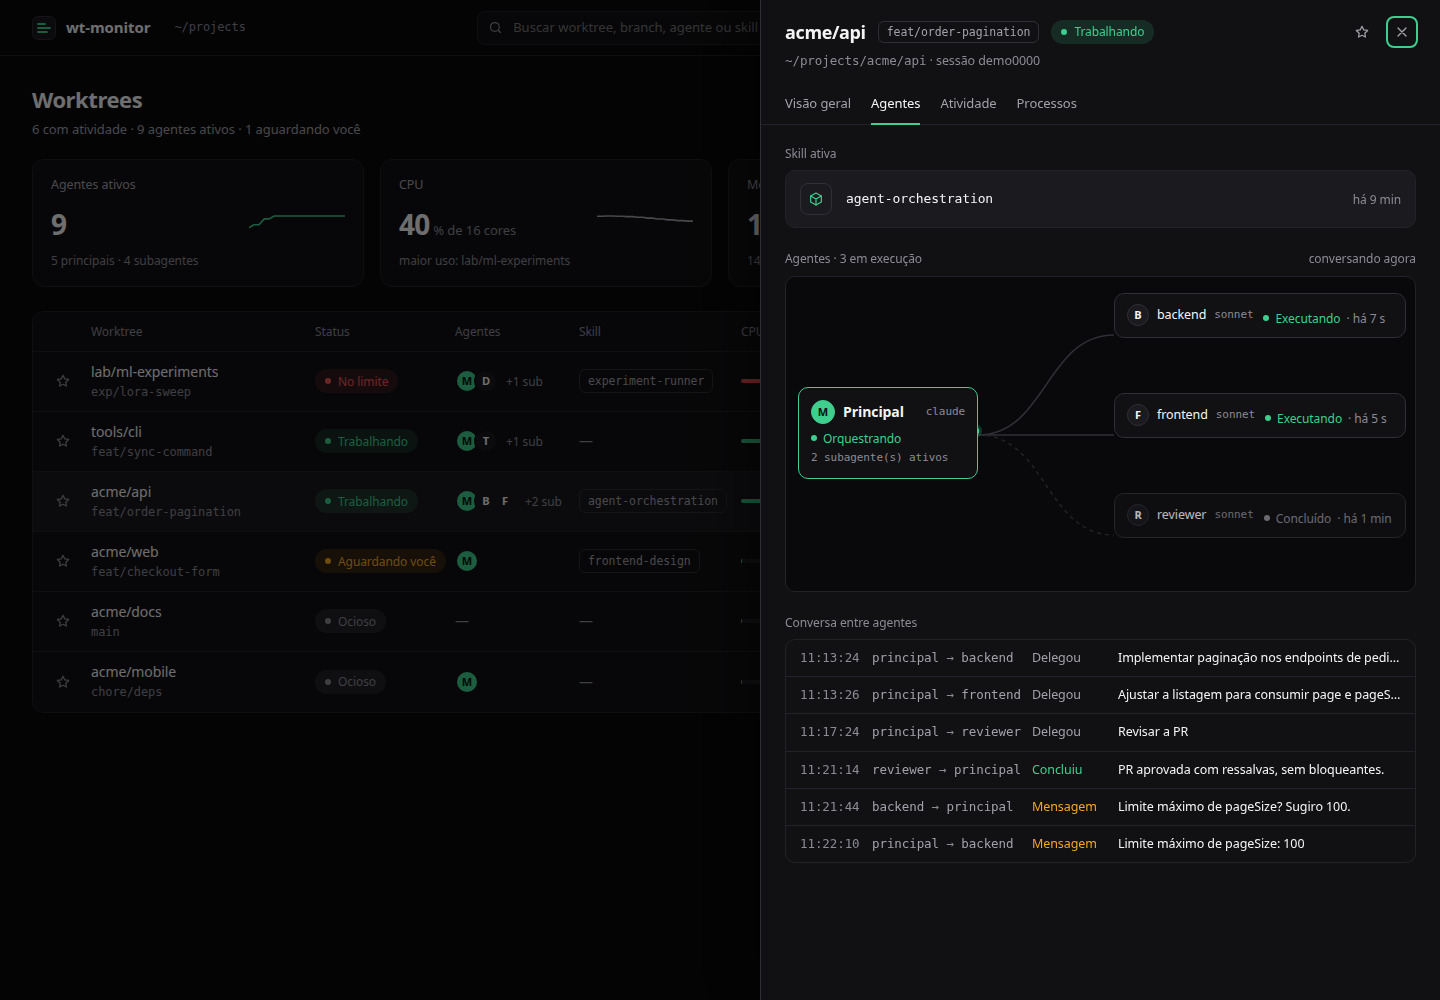
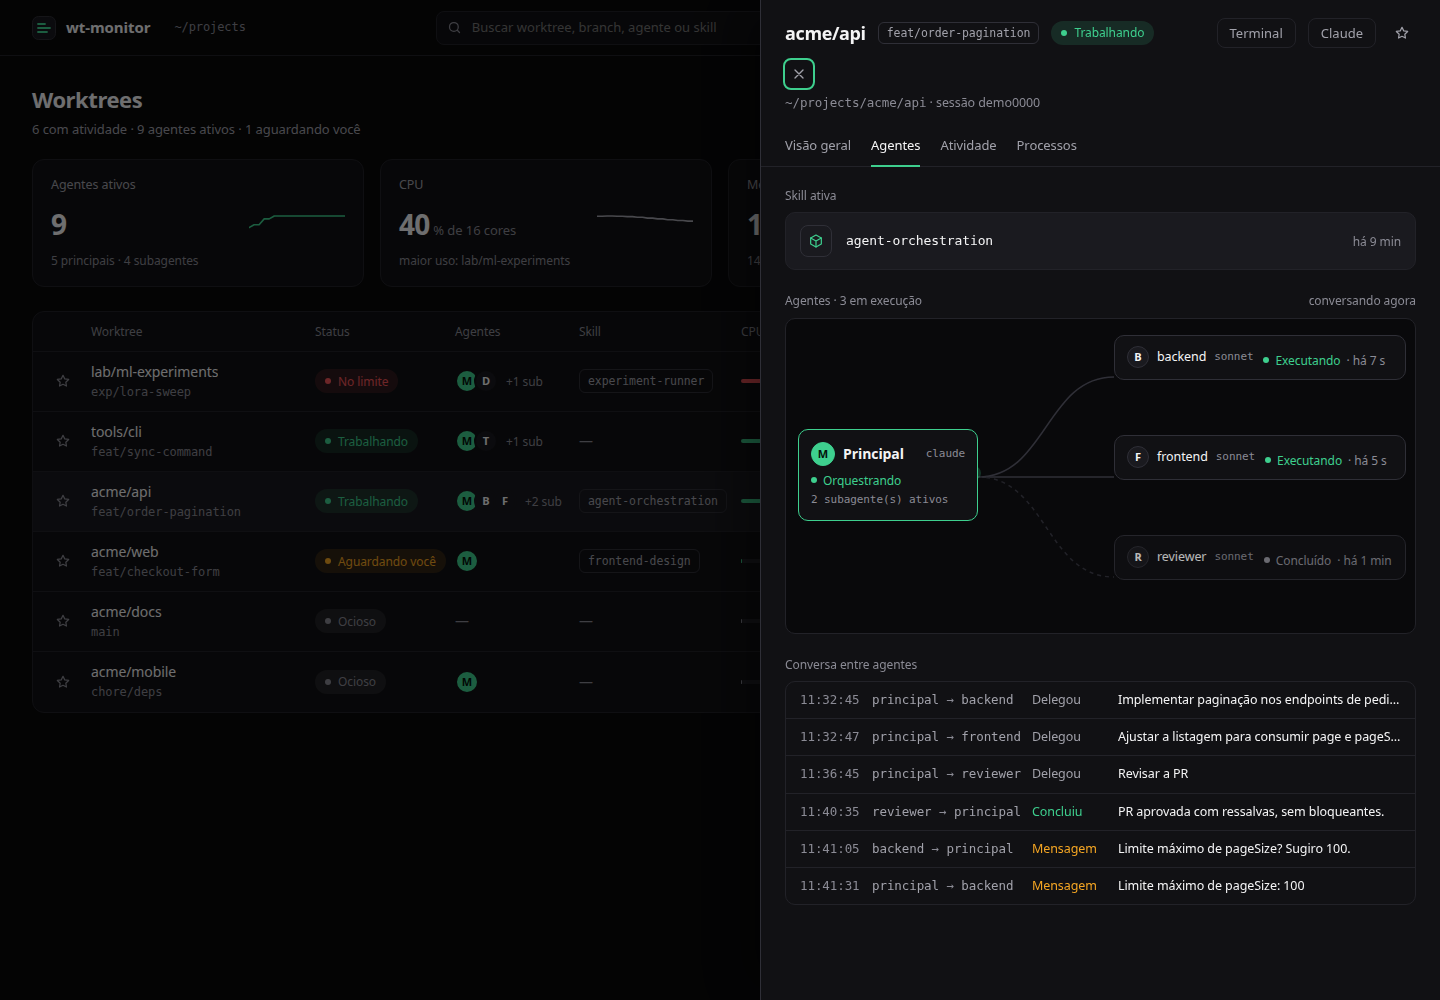
Document terminals and add make targets, security policy and CI e2e
TERMINALS=1, make e2e and make open-terminals; SECURITY.md with the threat model; README, architecture and changelog updates; a terminals screenshot generated from demo data.

diff --git a/README.md b/README.md
@@ -14,12 +14,17 @@ Single static binary, **zero dependencies** (Rust standard library only), Linux 
 |---|---|
 | ![session](docs/img/session.png) | ![arena](docs/img/arena.png) |
 
+| Terminals started by the panel (opt-in), four side by side |
+|---|
+| ![terminals](docs/img/terminals.png) |
+
 ## Features
 
 - **Per-worktree view** – processes are grouped by the nearest directory containing `.git` (a file in linked worktrees, a folder in normal repos). Branch, status, CPU %, memory, threads, CPU affinity, and 60 s history charts.
 - **Agents, skills and sub-agents** – for Claude Code worktrees it shows which agents are running (the main agent plus each running sub-agent with its type and model), the **skill** in use, the tool each sub-agent is on, and **who is talking to whom** (delegations, `SendMessage`, completions). A status is derived for each worktree: *working*, *waiting for you*, *idle* or *at the limit* (see [How status is derived](docs/architecture.md#status)).
 - **Session detail** – click a worktree to open a drawer with tabs: overview, agents (topology + conversation between agents), live activity feed (prompts, agent messages, tool calls, results) and processes.
 - **Two looks, one switch** – *Overview*, a dense table in the style of modern dashboards (dark and light, follows your system), and *Arena*, where each worktree is a small robot with its sub-agents wired to it and message packets travelling between them. It types when busy, sleeps when idle, celebrates when a task finishes, and earns XP/levels. Respects `prefers-reduced-motion`.
+- **Terminals (opt-in)** – open real terminals — a login shell, or `claude` — inside the dashboard, grouped by worktree and shown 1, 2 or 4 at a time. Only terminals **started by the panel** are managed. See [Terminals](#terminals-opt-in).
 - **Filters, search and pins** – filter by status, search by worktree, branch, agent or skill (`Ctrl K`), and ★ pin the worktrees you care about; they stay on top even with no running processes.
 - **Desktop notifications** (via `notify-send`) for high CPU / memory in a worktree, high system memory, and **when an agent finishes a task**, including its last message.
 - **Per-core CPU bars**, system memory and load.
@@ -76,20 +81,41 @@ Each alert fires once, re-arms when the value returns to normal, and waits at le
 
 URL parameters: `?mode=sober|fun`, `?theme=dark|light`, `?demo`, and with `?demo` also `?open=<worktree name>&tab=agents|activity|procs|overview`.
 
+## Terminals (opt-in)
+
+The dashboard can run terminals itself. This is **off by default**: it lets a web page start shells as you, so read [SECURITY.md](SECURITY.md) first.
+
+```bash
+make run TERMINALS=1          # or: wt-monitor --terminals   (WT_TERMINALS=1 also works)
+make install TERMINALS=1      # same, as the systemd user service
+make open-terminals           # opens the dashboard with the one-time token in the link
+```
+
+A random 256-bit secret is created on first use in `~/.config/wt-monitor/token` (mode `0600`) and is never returned by the API. `make open-terminals` opens `http://127.0.0.1:8765/#token=…` once; the browser remembers the token (the fragment is never sent to the server) and the link is cleaned from the address bar. Without the token the *Terminals* tab explains how to get it and its buttons stay disabled.
+
+- **Tab "Terminais"**: pick a worktree and click *Novo terminal* (a login shell in that worktree, so your `PATH`, `nvm` and per-folder account switching apply; it falls back to `/bin/bash` when `$SHELL` is not set, as in systemd user services) or *Novo Claude* (the same shell, with `claude` already typed). The session drawer has the same two buttons.
+- **Sets**: terminals are grouped by worktree in tabs; the `1 / 2 / 4` switch shows that many side by side. Closing a tab kills the terminal's process group.
+- **Reconnect**: terminals live in the server, not in the page. Reload or reopen the browser and they come back with the last 256 KB of output; ended terminals stay listed for 10 minutes with their exit code. At most 16 run at once.
+- Only terminals **started by the panel** are managed; it never attaches to terminals you opened elsewhere.
+
+The PTY and the WebSocket are implemented with the standard library only (no crates); the terminal emulator is [xterm.js](vendor/xterm/README.md), embedded in the binary.
+
 ## Make targets
 
-`make` with no arguments prints this list. Variables you can override: `ROOT` (default `~/dev`), `PORT` (`8765`), `PREFIX` (`~/.local`), `CONFIG_DIRS` (Claude config dirs for the hook; default all).
+`make` with no arguments prints this list. Variables you can override: `ROOT` (default `~/dev`), `PORT` (`8765`), `PREFIX` (`~/.local`), `TERMINALS` (`1` enables terminals), `CONFIG_DIRS` (Claude config dirs for the hook; default all).
 
 | Target | What it does |
 |---|---|
 | `make build` | Build the optimized binary |
-| `make run` | Run in the foreground on `ROOT`/`PORT` |
+| `make run` | Run in the foreground on `ROOT`/`PORT` (`TERMINALS=1` enables terminals) |
+| `make open-terminals` | Open the dashboard with the one-time terminal token in the link |
 | `make open` | Open the dashboard in the default browser |
 | `make test` | Unit tests |
 | `make fmt` / `make fmt-check` | Format / check formatting |
 | `make lint` | `clippy`, warnings are errors |
 | `make js-check` | Syntax-check the page script (needs `node`) |
-| `make check` | Everything CI runs: `fmt-check`, `lint`, `test`, `js-check` |
+| `make check` | `fmt-check`, `lint`, `test`, `js-check` |
+| `make e2e` | End-to-end tests of the terminals, over HTTP/WebSocket and in a real headless Chrome (CI runs `check` and `e2e`) |
 | `make install` | Build, install to `PREFIX/bin`, enable + (re)start the systemd user service |
 | `make uninstall` | Stop and remove the service and binary |
 | `make restart` / `status` / `logs` | Manage the service (`logs` follows `journalctl`) |
@@ -114,6 +140,7 @@ Build tools size their worker pools from the machine's CPU count, not from affin
 
 ## Security & privacy
 
+- Terminals, when enabled, are guarded by a token that is never exposed by the API, `Origin`/`Host` checks and a closed set of commands — details and threat model in [SECURITY.md](SECURITY.md).
 - Listens on **127.0.0.1 only** and rejects any `Host` header other than `127.0.0.1:<port>` / `localhost:<port>` (DNS-rebinding protection).
 - `POST /event` requires the custom header `X-WT: 1`, which forces a CORS preflight, so other web pages in your browser cannot inject fake events.
 - The preview and agent views read Claude Code transcripts (and sub-agent transcripts) under `~/.claude*/projects/` **only for worktrees inside the watched root**; the requested path is validated and never used to read arbitrary files. Transcripts can contain sensitive content — the preview is as private as your loopback interface.
@@ -126,7 +153,7 @@ See [docs/architecture.md](docs/architecture.md).
 
 ## Limitations
 
-Linux only. Memory is the sum of RSS, so pages shared between processes are counted more than once. Task detection relies on Claude Code's `Stop` hook, which fires after *every* completed response, not only long tasks. Agent, skill and *waiting for you* detection is **inferred from the transcript files** (their format is not a stable API) and is a best-effort heuristic. The UI uses Inter / JetBrains Mono when installed and falls back to system fonts; it makes no network requests.
+Linux only. Terminals run your login shell and are limited to 16; they do not attach to sessions you started elsewhere. Memory is the sum of RSS, so pages shared between processes are counted more than once. Task detection relies on Claude Code's `Stop` hook, which fires after *every* completed response, not only long tasks. Agent, skill and *waiting for you* detection is **inferred from the transcript files** (their format is not a stable API) and is a best-effort heuristic. The UI uses Inter / JetBrains Mono when installed and falls back to system fonts; it makes no network requests.
 
 ## Contributing & license
 

diff --git a/docs/architecture.md b/docs/architecture.md
@@ -8,7 +8,7 @@
                   └── alerts ──► notify-send               └── GET /api/preview ──► ~/.claude*/projects/**.jsonl
 ```
 
-Everything is in `src/main.rs` (std only) plus `index.html`, embedded with `include_str!`.
+Rust standard library only. `src/main.rs` holds the sampler, alerts and HTTP server; `src/terms.rs`, `src/pty.rs` and `src/ws.rs` implement the opt-in terminals. The UI is `index.html` plus the vendored xterm.js, all embedded with `include_str!`.
 
 ## Sampler
 
@@ -61,6 +61,25 @@ The browser polls one worktree per second (each every 5 s, the open one every 2 
 ## UI
 
 A single page, no build step, no libraries, no network requests. Rows and arena stations are reconciled by key (`sync()`) and cell contents are only rewritten when they change (`setHTML()`), so focus and CSS animations survive the 1 Hz refresh. *Overview* and *Arena* share the same data and are separate render functions; the session drawer is shared. Colours are CSS custom properties (dark by default, light via `prefers-color-scheme` or `?theme=`). `?demo` replaces `fetch` with a client-side generator of fake data, including sub-agents and skills.
+
+## Terminals (opt-in)
+
+Started with `--terminals`; otherwise every `/api/terminals*` and `/ws/term/*` route is 404.
+
+- **`pty.rs`** — pseudo-terminals through direct FFI to the libc that `std` already links (`posix_openpt`, `grantpt`, `unlockpt`, `ptsname_r`, `ioctl`, `setsid`). The child runs as a session leader with the slave as its controlling terminal; the master is `O_CLOEXEC` and the slave is opened `O_NOCTTY` so the server never adopts it.
+- **`ws.rs`** — RFC 6455: handshake (SHA-1 + base64, tested against the RFC vectors), masked client frames, fragmentation, ping/pong, close. Client frames must be masked; messages are capped at 1 MiB.
+- **`terms.rs`** — the registry. Each terminal has a reader thread that appends to a 256 KB ring buffer and fans out to subscribers, and a waiter thread that records the exit code. Lock order is always ring → subs → exit. Attaching sends the ring first and then live output with no gap. Dead terminals are kept 10 minutes; at most 16 exist.
+
+Routes (mutations need `X-WT: 1` + `X-WT-Token`):
+
+| Route | Purpose |
+|---|---|
+| `GET /api/terminals` | `{enabled, auth}`; with a valid token also `terms: [...]`. The token is never returned. |
+| `POST /api/terminals` | body `path=<worktree>&kind=shell\|claude&cols=&rows=` → `{id}` |
+| `DELETE /api/terminals/<id>` | SIGHUP to the process group, SIGKILL after 2 s |
+| `GET /ws/term/<id>` | WebSocket. Origin must be the dashboard's own. First message `{"token":"…"}`; then binary = keyboard, text `{"resize":[cols,rows]}`; the server sends binary output and `{"exit":N}`. |
+
+A `shell` terminal runs `$SHELL -l` (so `PATH`, `nvm` and per-folder account switching from the user's profile apply); a `claude` terminal is the same shell with `claude\n` typed. The browser keeps one xterm.js instance per terminal (`TERM.panes`), reconnects after drops, and resets and replays on reconnect. The token lives in `~/.config/wt-monitor/token` (`0600`) and reaches the browser once, through the `#token=` fragment. See [SECURITY.md](../SECURITY.md).
 
 ## Security
 

diff --git a/SECURITY.md b/SECURITY.md
@@ -1,0 +1,25 @@
+# Security
+
+## Reporting a vulnerability
+
+Please report security problems privately through GitHub's **private vulnerability reporting** (the *Security* tab of the repository, "Report a vulnerability"), not in a public issue. Include the version, how to reproduce it and the impact you see.
+
+## Threat model
+
+wt-monitor is a local tool for a single user's machine.
+
+**Always on (no terminals):**
+- Listens on `127.0.0.1` only and rejects any `Host` header other than `127.0.0.1:<port>` / `localhost:<port>` (DNS-rebinding protection).
+- `POST /event` requires the custom header `X-WT: 1`, which makes browsers send a CORS preflight that the server never approves, so other web pages cannot inject events.
+- The preview reads Claude Code transcripts only for worktrees inside the watched root; paths are validated (absolute, no `..`, symlinks resolved, must contain `.git`).
+- The dashboard reads `/proc` and shows processes, commands and transcript excerpts to **anyone who can reach the port**. On a machine shared with other users, other local users can see them: `127.0.0.1` is not private between users.
+
+**Terminals (opt-in with `--terminals`):** the dashboard can start a login shell (or run `claude` in one) in a worktree. That is remote-code-execution capability for whoever is authorised, so:
+- It is **off by default**; every `/api/terminals*` and `/ws/term/*` route answers 404 unless started with `--terminals` (or `WT_TERMINALS=1`).
+- Authorisation is a 256-bit secret kept in a file that only you can read (`~/.config/wt-monitor/token`, mode `0600`, directory `0700`). It is **never returned by any API** — you receive it once through the fragment of a link (`/#token=…`, which browsers never send to the server) printed by `wt-monitor --print-token` / `make open-terminals`. Other local users, who can reach the port, cannot obtain it.
+- Mutating requests need the token **and** the `X-WT: 1` header (preflight again); the WebSocket needs the token as its first message and an `Origin` equal to the dashboard's own, so no third-party site can open a shell.
+- Only two kinds exist, `shell` and `claude`; the client cannot choose a command. The working directory must be a valid worktree inside the root.
+- Only terminals **started by the panel** are managed; it never attaches to other terminals. At most 16 at a time; each is killed (SIGHUP, then SIGKILL) when closed.
+- The token is compared in constant time. Anyone holding it can run commands as your user: treat it like an SSH key and rotate it by deleting the file and restarting.
+
+**Out of scope:** attackers who already run code as your user (they can do anything), and exposing the port beyond loopback (don't: there is no TLS and no user authentication).

diff --git a/CONTRIBUTING.md b/CONTRIBUTING.md
@@ -3,11 +3,13 @@
 Thanks for helping! The project is intentionally tiny: Rust standard library only and a single HTML file with no build step. Please keep it that way unless there is a strong reason.
 
 ```bash
-make check     # fmt-check + clippy (-D warnings) + tests + page-script syntax check: what CI runs
+make check     # fmt-check + clippy (-D warnings) + tests + page-script syntax check
+make e2e       # terminals end-to-end: over HTTP/WebSocket and in headless Chrome (CI runs both)
 make run       # serve ~/dev on :8765   (make help lists every target)
 ```
 
 - **UI work:** `make run`, then open `/?demo` (or `/?demo&mode=fun`) to iterate with fake data. `make js-check` syntax-checks the page script. Respect `prefers-reduced-motion`.
+- **Terminals** are security-sensitive: keep them opt-in, keep the token out of every API response, and add a case to `scripts/e2e-terminals.mjs` for anything that touches authorisation. Read [SECURITY.md](SECURITY.md) first. The e2e scripts use a throw-away `HOME` and `WT_TOKEN_FILE`, never your real token.
 - **Server work:** keep it dependency-free, Linux-only (`/proc`), and loopback-only. Anything that reads files or accepts input must validate its path/headers (see `preview` and `serve`).
 - **Screenshots** in `docs/img/` are generated from the demo data (never from real projects) with `make screenshots` (overview dark/light, arena and the session drawer).
 - **Hook work:** test `install-hooks.py` against a throw-away directory and a fake `HOME` rather than your real settings: `HOME=$(mktemp -d) make hooks CONFIG_DIRS=$HOME/cfg` (create `cfg/` first).

diff --git a/CHANGELOG.md b/CHANGELOG.md
@@ -4,6 +4,18 @@ All notable changes to this project are documented here. The format follows
 [Keep a Changelog](https://keepachangelog.com/en/1.1.0/) and the project uses
 [Semantic Versioning](https://semver.org/).
 
+## [Unreleased]
+
+### Added
+- **Terminals started by the panel (opt-in).** A new *Terminals* view runs real terminals (a login shell, or `claude` in one) in a worktree, rendered with xterm.js. Open several, group them by worktree, show 1, 2 or 4 side by side, close and reconnect (the last 256 KB of output is replayed). Buttons in the session drawer open a terminal or Claude directly in that worktree. Start with `--terminals` / `make run TERMINALS=1` / `make install TERMINALS=1`.
+- `wt-monitor --print-token` and `make open-terminals`: the authorisation secret lives in a `0600` file and is delivered to the browser once, through the fragment of a link.
+- `make e2e`: end-to-end tests for the terminals over HTTP/WebSocket and in a real headless Chrome; run by CI.
+- `SECURITY.md` with the threat model, and `THIRD_PARTY_NOTICES.md`.
+
+### Notes
+- Still **zero Rust dependencies**: the PTY uses the libc that `std` already links, and WebSocket (handshake, SHA-1, base64, framing) is implemented in `src/ws.rs` with the RFC 6455 test vectors. The UI embeds xterm.js 5.5.0 (MIT) under `vendor/xterm/`; it makes no network requests.
+- Terminals are **off by default**. See [SECURITY.md](SECURITY.md) before enabling them.
+
 ## [0.2.0] - 2026-10-29
 
 ### Added
